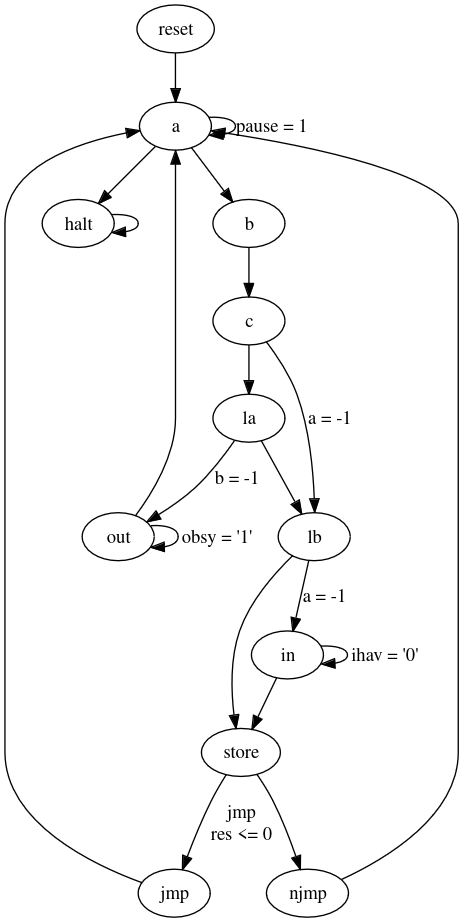
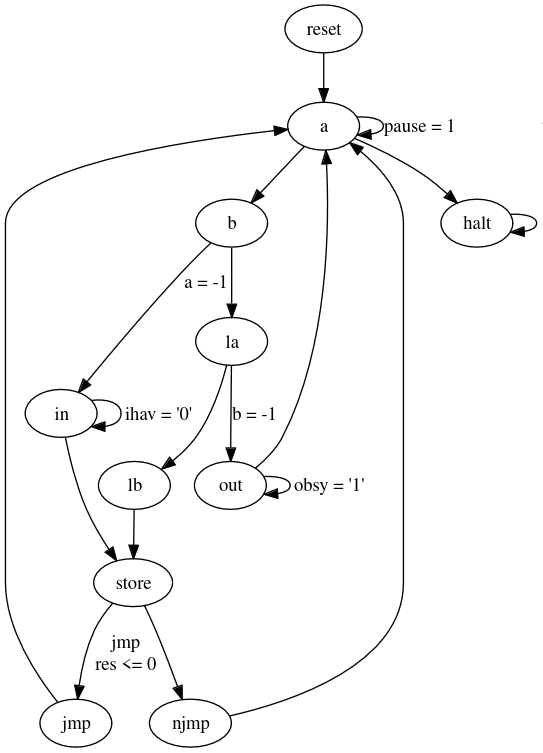
173.580MHz: New SM - Working
The new state-machine is working, and the diagrams have been updated to
reflect the new state-machine diagram. This change makes the SUBLEQ CPU
faster, with no real change in size. A comment about input on real
hardware has been made as well.

+---------------------------------------------------------------------------------------------------------------------------------------------------------------------------------------+
| Module             | Partition | Slices*       | Slice Reg     | LUTs          | LUTRAM        | BRAM/FIFO | DSP48A1 | BUFG  | BUFIO | BUFR  | DCM   | PLL_ADV   | Full Hierarchical  |
+---------------------------------------------------------------------------------------------------------------------------------------------------------------------------------------+
| top/               |           | 3/66          | 9/126         | 1/198         | 0/0           | 0/8       | 0/0     | 1/1   | 0/0   | 0/0   | 0/0   | 0/0       | top                |
| +system            |           | 1/40          | 0/68          | 1/132         | 0/0           | 0/8       | 0/0     | 0/0   | 0/0   | 0/0   | 0/0   | 0/0       | top/system         |
| ++bram             |           | 0/0           | 0/0           | 0/0           | 0/0           | 8/8       | 0/0     | 0/0   | 0/0   | 0/0   | 0/0   | 0/0       | top/system/bram    |
[…]

diff --git a/readme.md b/readme.md
@@ -20,6 +20,12 @@ Amazon, available [here](https://www.amazon.com/SUBLEQ-EFORTH-Forth-Metacompilat
 that describes how the eForth interpreter works and how to port a Forth to
 a new platform.
 
+If you are trying the eForth interpreter out on actual hardware note that you
+will have to leave a roughly 3 millisecond delay, at minimum, between 
+sending characters. This is not usually a problem when typing but can be when
+redirecting a file into the UART. This for multiple reasons, firstly the SUBLEQ
+eForth is fairly slow, and secondly there is no buffering done on the UART.
+
 A block diagram of the project for those with no imagination (you can
 tell I am a programmer and not a graphic designer):
 
@@ -205,14 +211,11 @@ can be pasted into [GraphvizOnline][].
 	  a -> b;
 	  a -> a [label = "pause = 1"];
 	  a -> halt;
-	  b -> c;
-	  c -> la;
-	  c -> lb [label = "a = -1"];
+	  b -> la;
+	  b -> in [label = "a = -1"];
 	  la -> lb;
 	  la -> out [label = "b = -1"];
 	  lb -> store;
-	  lb -> in [label = "a = -1"];
-	  halt -> halt;
 
 	  store -> jmp [label="jmp\nres <= 0"];
 	  store -> njmp;
@@ -225,6 +228,8 @@ can be pasted into [GraphvizOnline][].
 
 	  out -> a;
 	  out -> out [label="obsy = '1'"];
+
+	  halt -> halt;
 	}
 
 ## To Do and Wish List
@@ -268,9 +273,12 @@ can be pasted into [GraphvizOnline][].
         It is also MIT licensed (or the version I have is).
   * [x] Optionally generate the UART test benches in the top level component
         as well as directly intefacing with `system.vhd` (again, optionally)
+  * [x] Optimize number of states needed to execute a SUBLEQ instruction and 
+        transitions in CPU (down from 8 to 6).
+  * [x] Hook up `blocked` and `halted` to an LED? (The `blocked` line would
+        need some kind of pulse lengthening to become visible) (will not do)
   * [ ] Find way of interacting with other hardware
   * [ ] Optimize SUBLEQ design for slice area (and speed if possible)
-  * [ ] Hook up `blocked` and `halted` to an LED?
 
 ## Other SUBLEQ projects
 
